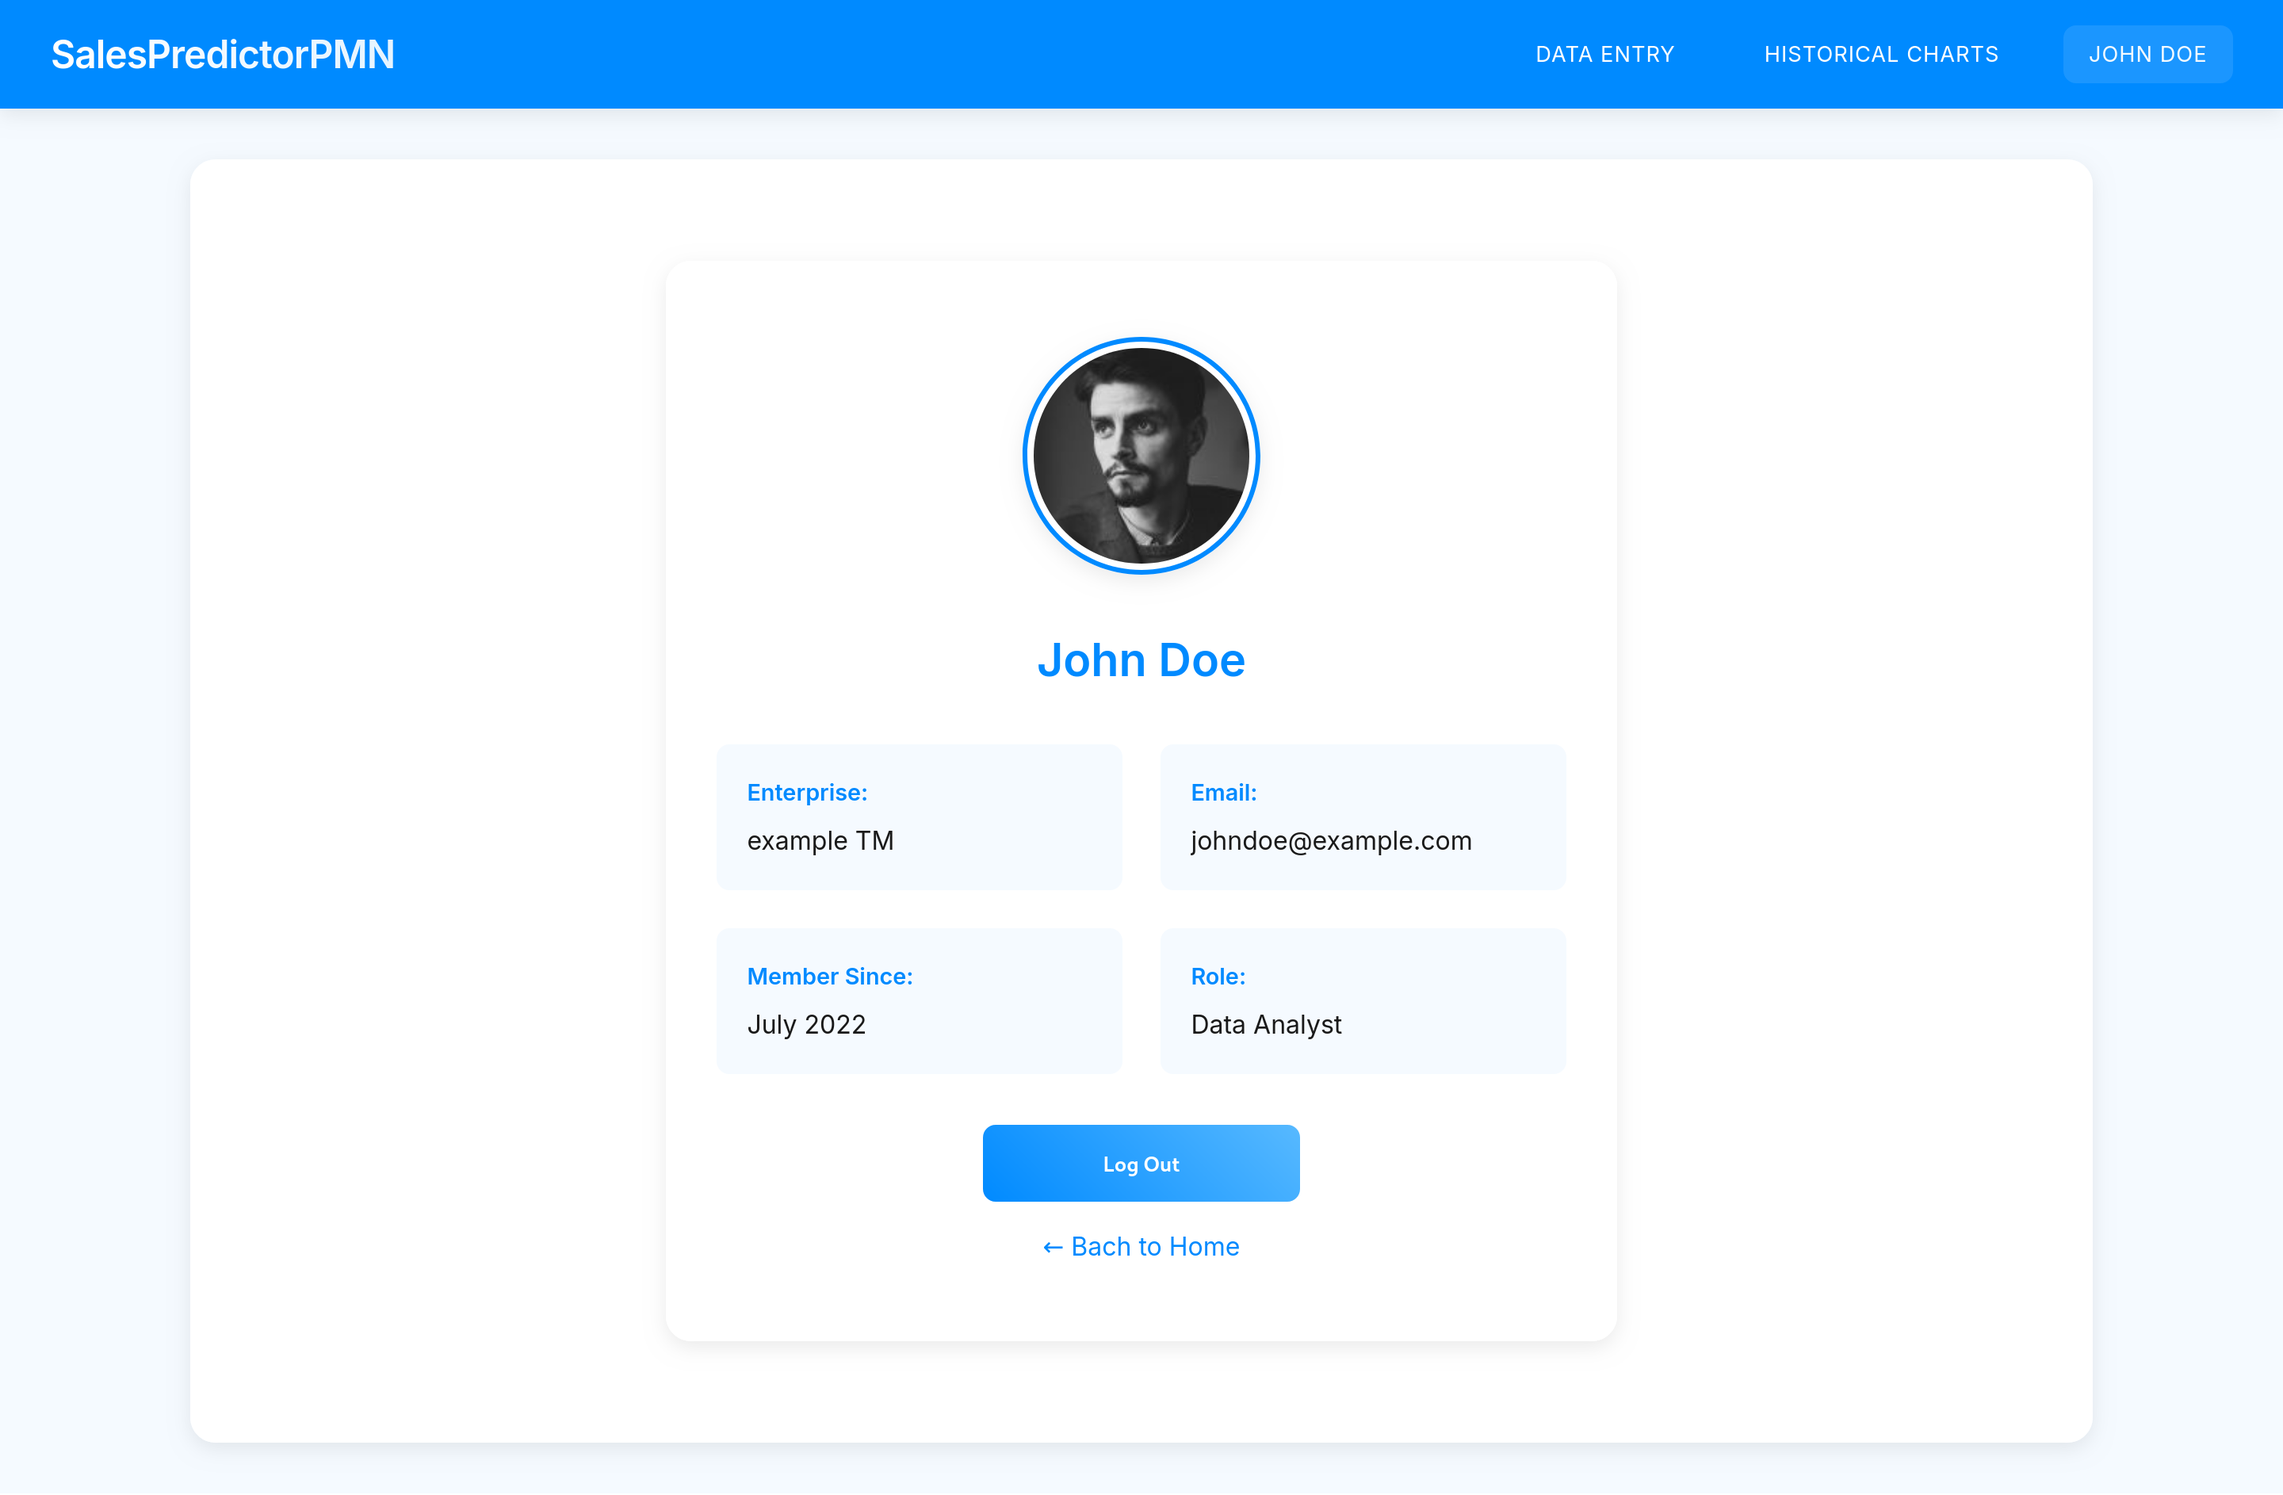
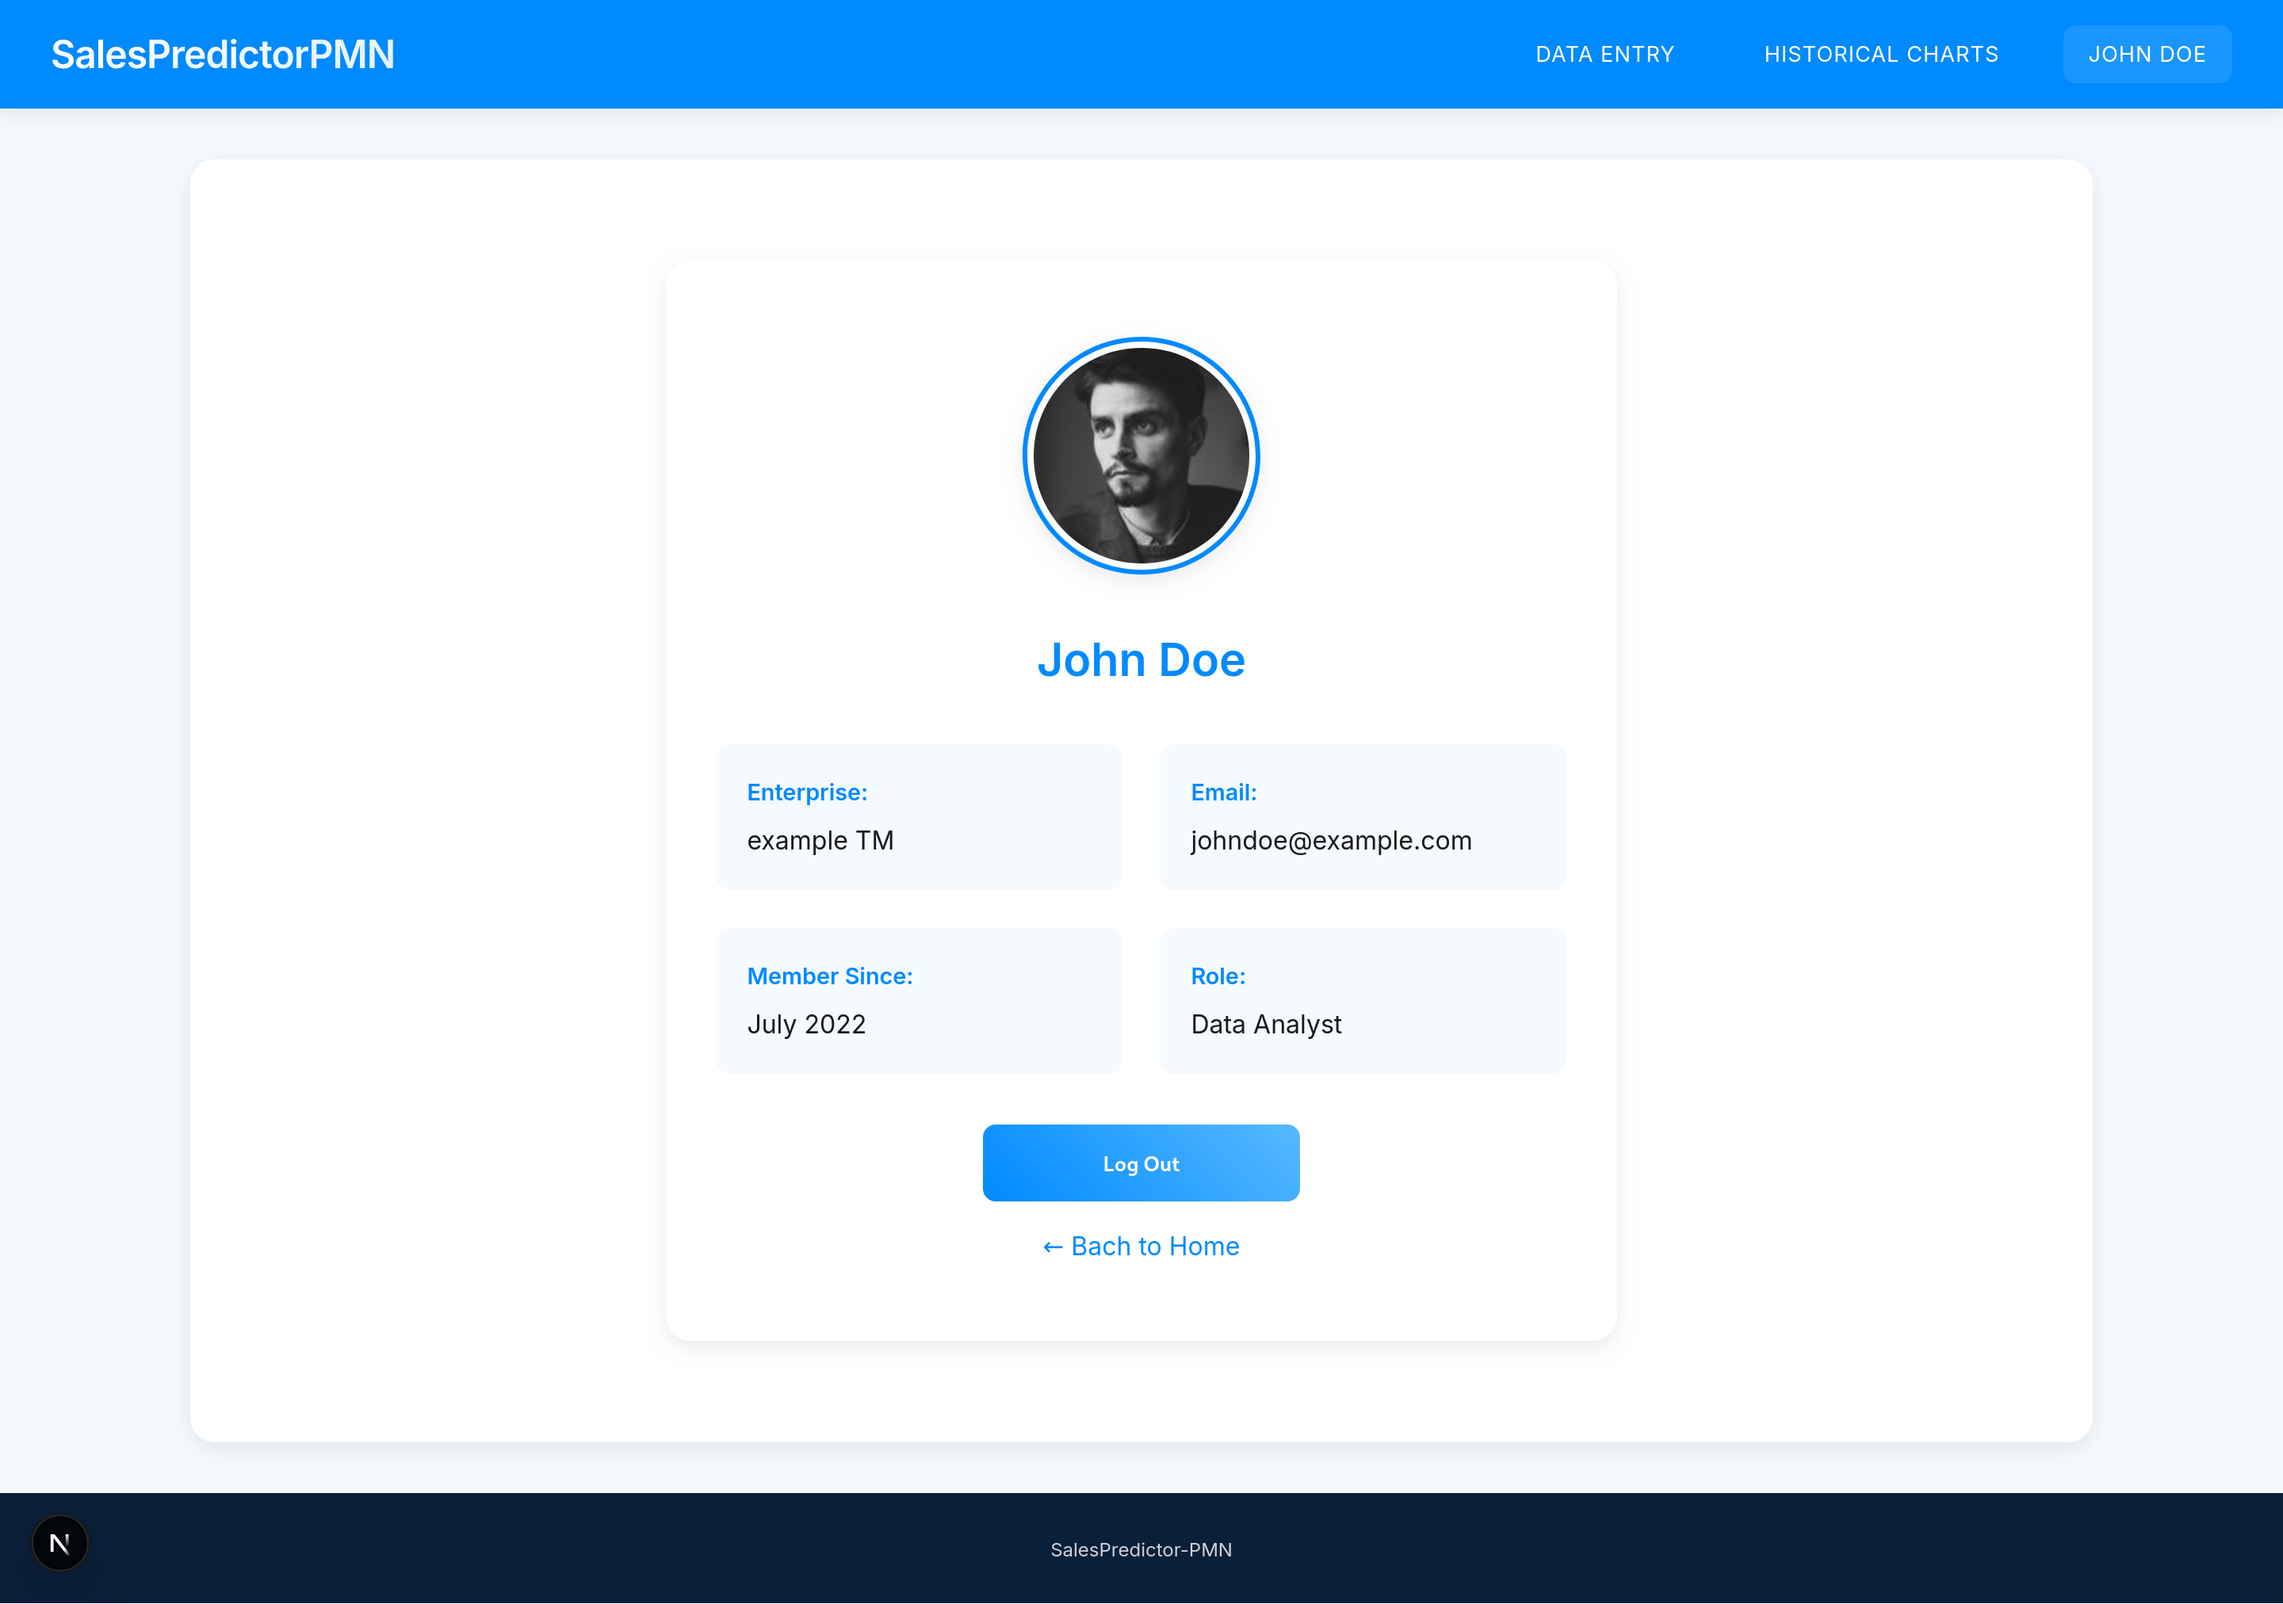
Footer

diff --git a/components/Layout.tsx b/components/Layout.tsx
@@ -1,14 +1,16 @@
 import { ReactNode } from "react";
 import Nav from "./Nav";
+import Footer from "./Footer";
 import styles from "../styles/Layout.module.css";
 
 type Props = { children: ReactNode };
 
 export default function Layout({ children }: Props) {
   return (
-    <>
+    <div className={styles.layoutContainer}>
       <Nav />
       <main className={styles.container}>{children}</main>
-    </>
+      <Footer />
+    </div>
   );
 }

diff --git a/components/Footer.tsx b/components/Footer.tsx
@@ -1,0 +1,9 @@
+import styles from "../styles/Footer.module.css";
+
+export default function Footer() {
+  return (
+    <footer className={styles.footer}>
+      <small>SalesPredictor-PMN</small>
+    </footer>
+  );
+}

diff --git a/styles/Footer.module.css b/styles/Footer.module.css
@@ -1,0 +1,8 @@
+.footer {
+    background: #0a1f38;
+    color: rgba(255, 255, 255, 0.8);
+    padding: 1.5rem 2rem;
+    text-align: center;
+    font-size: 0.9rem;
+    margin-top: auto;
+}

diff --git a/styles/Layout.module.css b/styles/Layout.module.css
@@ -8,3 +8,9 @@
     min-height: calc(100vh - 120px);
     position: relative;
 }
+
+.layoutContainer {
+    display: block;
+    flex-direction: column;
+    min-height: 100vh;
+}
